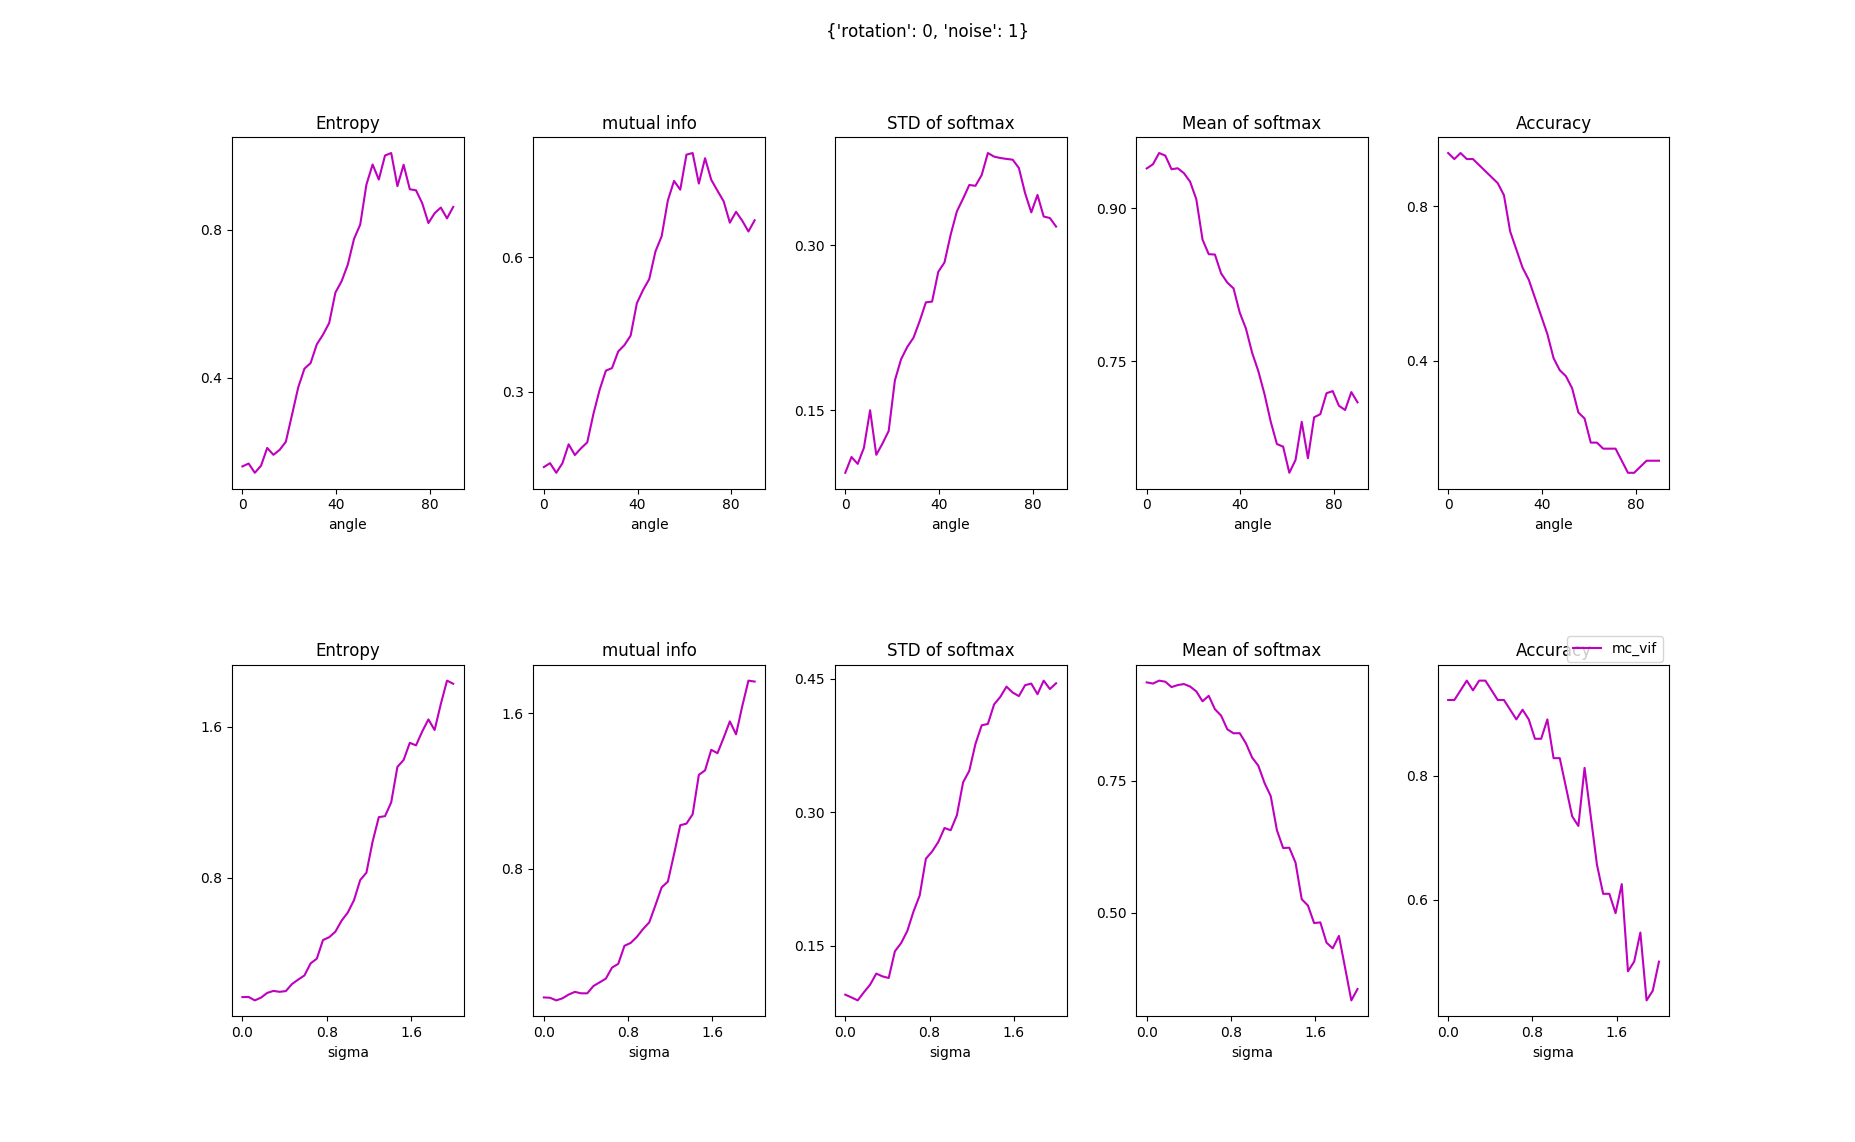
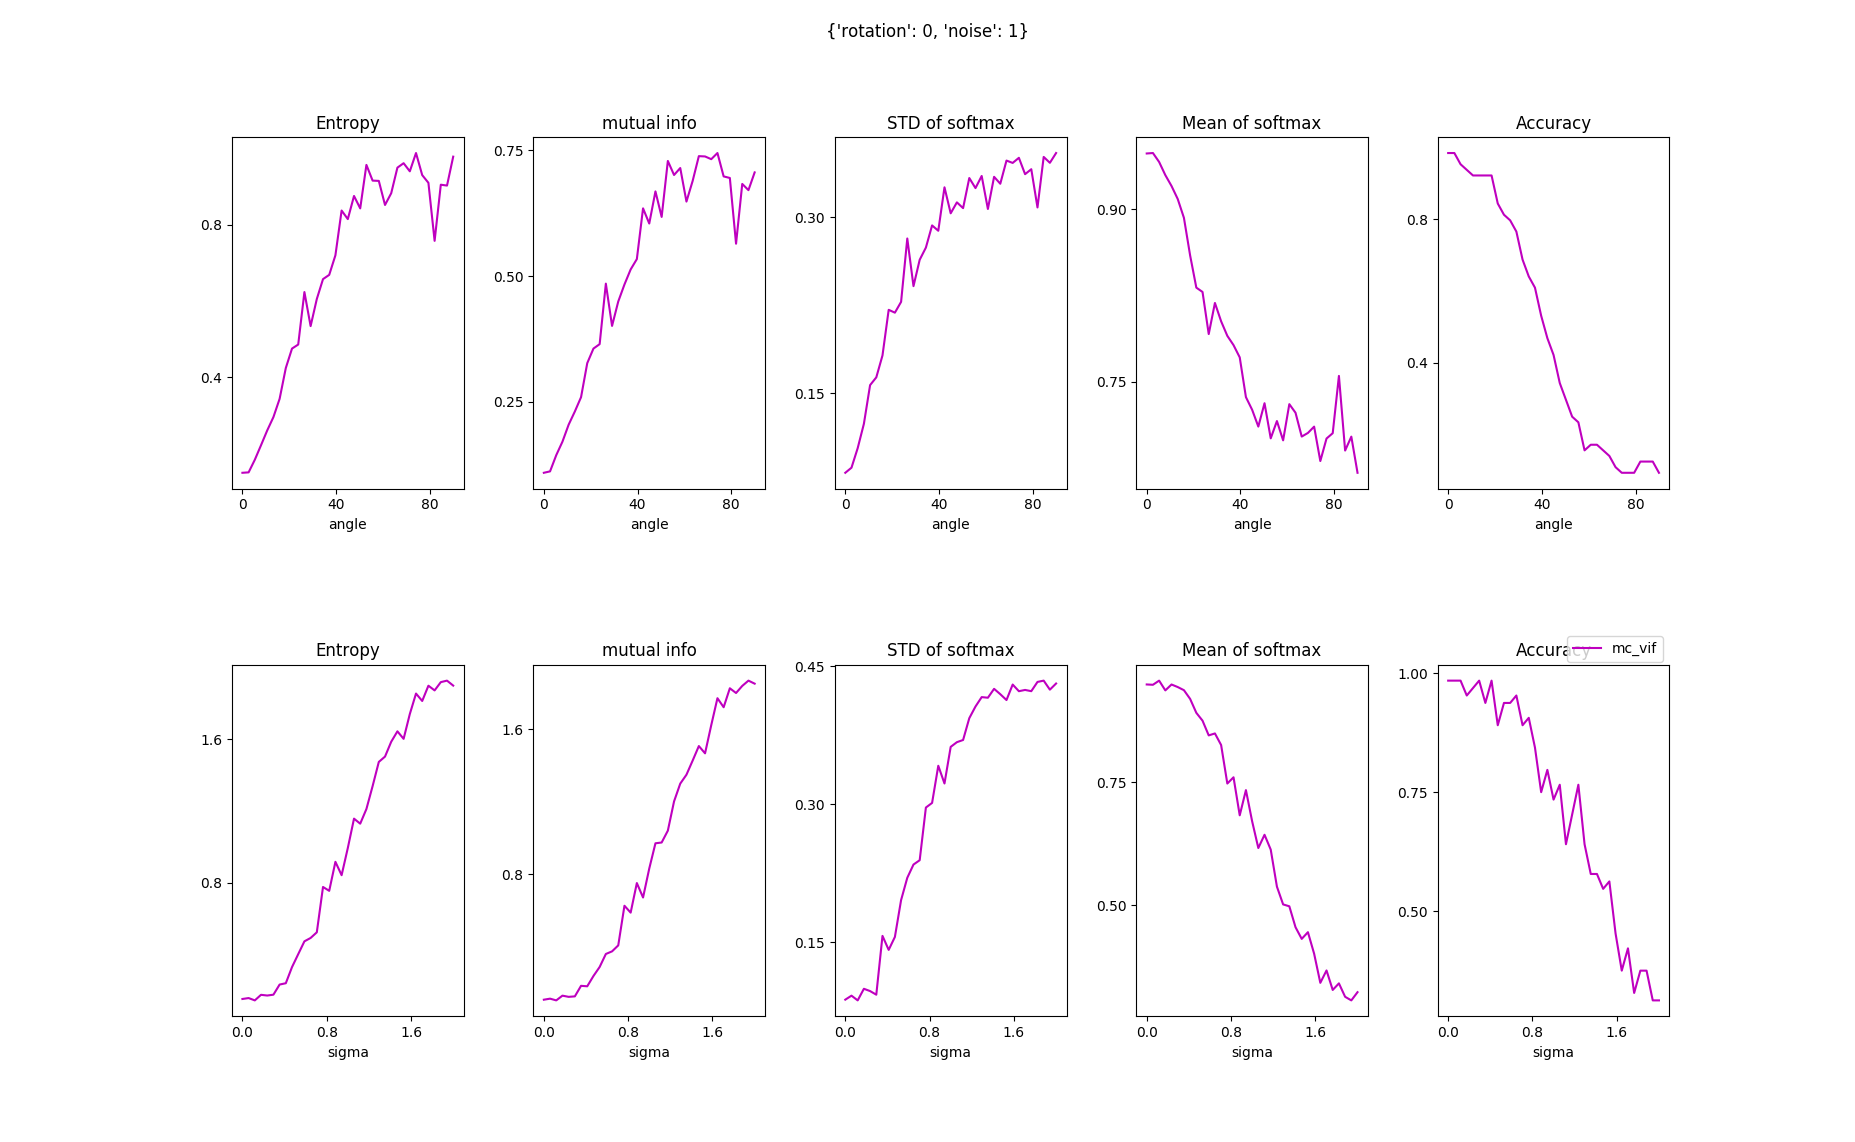
better images

diff --git a/bayes_nn/plot_images.py b/bayes_nn/plot_images.py
@@ -31,7 +31,7 @@ for mutilation, var_name, _, _ in conf.experiments:
         batch_count = 0
         for num_row in range(num_rows):
             axarr[num_row, 0].imshow(np.squeeze(images[num_experiment, batch_count]), cmap='gray')
-            color = 'g' if risks[num_experiment, 4, batch_count] else 'r'
+            color = 'g' if risks[num_experiment, 5, batch_count].astype(np.bool) else 'r'
             axarr[num_row, 0].set_title('Entropy %5.3f' % risks[num_experiment, 1, batch_count], color=color)
 
             axarr[num_row, 1].imshow(np.ones((28, 28)) * risks[num_experiment, 1, batch_count], cmap='coolwarm', vmin=0.0, vmax=1.6)

diff --git a/bayes_nn/main.py b/bayes_nn/main.py
@@ -24,7 +24,7 @@ def main():
     print('\nDo MC lang\n')
     MC_sampling('saved_models_lang', test_batch, 'lang')
 
-    MC_sampling_tf('/home/mps/Documents/rob/projects/weight_uncertainty/weight_uncertainty/log/mnist_final/save/my-model', test_batch, 'vif')
+    MC_sampling_tf('/home/mps/Documents/rob/projects/weight_uncertainty/weight_uncertainty/log/mnist_final_augment/save/my-model', test_batch, 'vif')
 
     # MC_sampling_tf('/home/rob/Dropbox/ml_projects/weight_uncertainty/weight_uncertainty/log/18-04-14__14:57:19/save/my-model', test_batch, 'vifp')
 
